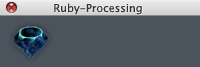
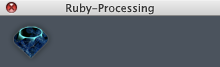
letting it loose

Changed region(s): [[0.06, 0.3881, 0.24, 0.8657], [0.27, 0.0597, 0.72, 0.209], [0.0, 0.0299, 0.09, 0.209]]

diff --git a/src/RubyProcessingPlugin.java b/src/RubyProcessingPlugin.java
@@ -1,5 +1,7 @@
 /*
   A simple tool to run Ruby-Processing Sketches from the Processing IDE.
+  For now, delegates commands to an installed Ruby-Processing gem.
+  Three buttons: Run, Watch, Help.
 */
 
 package processing.app.tools;
@@ -18,15 +20,18 @@ import java.io.*;
 public class RubyProcessingPlugin extends JPanel implements Tool, MouseInputListener {
   
   static final String[] _commands       = {"run", "watch", "help"};
+  static final String[] _capCommands    = {"Run", "Watch", "Help"};
   static final String[] _statuses       = {"running", "watching"};
   static final int      BUTTON_COUNT    = _commands.length;
   static final int      BUTTON_WIDTH    = 27;
   static final int      BUTTON_HEIGHT   = 32;
   static final int      BUTTON_GAP      = 5;
   static final int      IMAGE_SIZE      = 33;
-  static final int      OFFSET_OVER     = 95;
+  static final int      OFFSET_OVER     = 125;
   static final int      OFFSET_DOWN     = 25;
-  static final int      WIDTH           = 190;
+  static final int      TEXT_OVER       = 70;
+  static final int      TEXT_DOWN       = 45;
+  static final int      WIDTH           = 220;
   static final int      HEIGHT          = 67;
   static final int      BAR_HEIGHT      = 17;
   static final String   WIKI_URL        = "http://wiki.github.com/jashkenas/ruby-processing";
@@ -40,10 +45,9 @@ public class RubyProcessingPlugin extends JPanel implements Tool, MouseInputList
   private int           _currentButton  = -1;
   private Point         _dragPoint;
   private boolean       _dragging       = false;
-                        
-  private JButton       _runButton;
-  private JButton       _watchButton;
-  private JButton       _liveButton;
+  private File          _tempFolder;
+  private Font          _statusFont;
+  private Color         _statusColor;
   
   // The name of the beast.
   public String getMenuTitle() {
@@ -53,16 +57,20 @@ public class RubyProcessingPlugin extends JPanel implements Tool, MouseInputList
   // Create the controls behind the scenes. Don't show them yet.
   public void init(Editor editor) {
     _editor = editor;
+    _tempFolder = Base.createTempFolder(_title);
     _background = new ImageIcon(getClass().getResource("images/control_panel.png")).getImage();
     _buttonsImage = new ImageIcon(getClass().getResource("images/buttons.png")).getImage();
+    _statusFont = Theme.getFont("buttons.status.font");
+    _statusColor = Theme.getColor("buttons.status.color");
     _createControls();
   }
   
-  // Show the control panel, sesizing based on the height of the title bar.
+  // Show the control panel, resizing based on the height of the title bar.
   public void run() {
     _frame.setVisible(true);
     _frame.setSize(WIDTH, HEIGHT + _frame.getInsets().top);
     _frame.setLocationRelativeTo(_editor);
+    
     // Set the syntax highlighting to Ruby, and force repainting.
     _editor.getTextArea().setTokenMarker(new RubyTokenMarker());
     _editor.handleSelectAll();
@@ -75,7 +83,10 @@ public class RubyProcessingPlugin extends JPanel implements Tool, MouseInputList
       Base.openURL(WIKI_URL); 
     } else {
       try {
-        SketchCode code = _editor.getSketch().getCode(0);
+        Sketch sketch = _editor.getSketch();
+        SketchCode code = sketch.getCurrentCode();
+        code.setProgram(_editor.getText());
+        code.save();
         String name = code.getPrettyName();
         String path = code.getFile().getAbsolutePath();
         _editor.statusNotice(_title + ": " + _statuses[_currentButton] + " \"" + name + "\"");
@@ -93,17 +104,20 @@ public class RubyProcessingPlugin extends JPanel implements Tool, MouseInputList
     _frame.setContentPane(this);
     _frame.setUndecorated(true);
 		_frame.setResizable(false);
+		
 		Base.setIcon(_frame);
-    Dimension screen = Toolkit.getDefaultToolkit().getScreenSize();
     
     addMouseListener(this);
     addMouseMotionListener(this);                            
   }
   
+  // Allows faster rendering, sacrificing transparency.
   public boolean isOpaque() {
     return true;
   }
       
+  // Handles drawing the background and each of the buttons. We're all just
+  // one big happy surface here.    
   protected void paintComponent(Graphics g) {
     g.drawImage(_background, 0, 0, null);
     
@@ -113,14 +127,20 @@ public class RubyProcessingPlugin extends JPanel implements Tool, MouseInputList
       int mult = i == _currentButton ? -1 : -2;
       brush.drawImage(_buttonsImage, -(i*IMAGE_SIZE) - 3, mult*IMAGE_SIZE, null);
       g.drawImage(image, OFFSET_OVER + i * (BUTTON_WIDTH), OFFSET_DOWN, null);
-    }        
+    }
+    
+    if (_currentButton >= 0) {
+      g.setColor(_statusColor);
+      g.setFont(_statusFont);
+      g.drawString(_capCommands[_currentButton], TEXT_OVER, TEXT_DOWN);  
+    }  
   }
   
   // Show the light rollovers and set the current button.
   public void handleHover(int x, int y) {
     x = x - OFFSET_OVER;
     Boolean yMiss = y < OFFSET_DOWN || y > OFFSET_DOWN + BUTTON_HEIGHT;
-    Boolean xMiss = x < 0 || x > BUTTON_COUNT * BUTTON_WIDTH;
+    Boolean xMiss = x < 0 || x > BUTTON_COUNT * BUTTON_WIDTH - 1;
     _currentButton = xMiss || yMiss ? -1 : x / BUTTON_WIDTH;
     repaint();
   }
@@ -153,12 +173,13 @@ public class RubyProcessingPlugin extends JPanel implements Tool, MouseInputList
   public void mouseClicked(MouseEvent e) {
     Point p = e.getPoint();
     // Watch out for close button clicks.
-    if (p.x > 6 && p.x < 18 && p.y > 2 && p.y < 14 ) {
+    if (p.x > 4 && p.x < 20 && p.y > 0 && p.y < 16 ) {
       _frame.setVisible(false);
     }
   }
   public void mouseEntered(MouseEvent e) {}
   public void mouseExited(MouseEvent e) {
+    _currentButton = -1;
     _editor.statusEmpty();
   }
   
